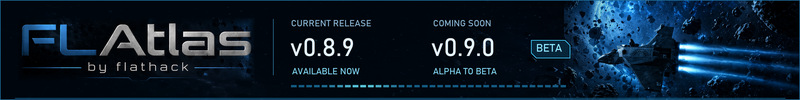
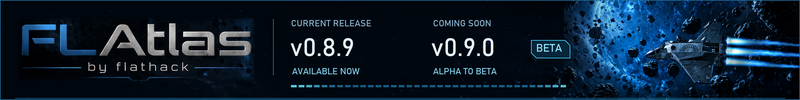
Animate FLAtlas signature spacecraft and engine exhaust

Changed region(s): [[0.6875, 0.18, 1.0, 0.93], [0.3438, 0.84, 0.5, 0.9], [0.6562, 0.84, 0.7188, 0.9]]

diff --git a/docs/forum-signature-progress.html b/docs/forum-signature-progress.html
@@ -344,9 +344,9 @@
   </div>
 
   <div class="gif-block">
-    <div class="gif-label"><span>FLAtlas</span> v0.8.9 · v0.9.0 BETA coming soon (GIF):</div>
+    <div class="gif-label"><span>FLAtlas</span> v0.8.9 · v0.9.0 BETA coming soon (GIF · animated ship &amp; thrusters):</div>
     <img class="gif-img" src="../assets/img/widgets/widget-animated-flatlas-v2-progress.gif"
-         alt="FLAtlas animated progress signature" width="800" height="100">
+         alt="FLAtlas v0.8.9 with flying spacecraft and animated thrusters — v0.9.0 BETA coming soon" width="800" height="100">
     <div class="bbcode-block gif-bbcode">
       <div class="bbcode-label">BBCode (animated GIF - FLAtlas):</div>
       <code class="bbcode-code">[url=https://www.moddb.com/games/freelancer/downloads][img]https://flathack.github.io/assets/img/widgets/widget-animated-flatlas-v2-progress.gif[/img][/url]</code>

diff --git a/assets/img/widgets/make_flatlas_v2_sig.py b/assets/img/widgets/make_flatlas_v2_sig.py
@@ -6,6 +6,7 @@ from __future__ import annotations
 import math
 from pathlib import Path
 
+import numpy as np
 from PIL import Image, ImageDraw, ImageFilter, ImageFont
 
 W, H = 800, 100
@@ -14,8 +15,8 @@ SW, SH = W * SCALE, H * SCALE
 BASE = Path(__file__).parent / "flatlas-signature-splash.png"
 OUT = Path(__file__).parent / "widget-flatlas-v2-progress.png"
 OUT_GIF = Path(__file__).parent / "widget-animated-flatlas-v2-progress.gif"
-FPS = 15
-DURATION_S = 4
+FPS = 20
+DURATION_S = 14
 TOTAL_FRAMES = FPS * DURATION_S
 TEXT = (230, 245, 255)
 MUTED = (140, 182, 211)
@@ -45,8 +46,9 @@ def text(draw: ImageDraw.ImageDraw, xy, value, font, fill) -> None:
     draw.text((sc(xy[0]), sc(xy[1])), value, font=font, fill=fill, anchor="lt")
 
 
-def make_background() -> Image.Image:
-    source = Image.open(BASE).convert("RGB")
+def make_background(source: Image.Image | None = None) -> Image.Image:
+    if source is None:
+        source = Image.open(BASE).convert("RGB")
     # Separate crops preserve the wordmark and ship in the narrow forum format.
     image = Image.new("RGBA", (SW, SH), (1, 8, 16, 255))
     stars = source.crop((0, 0, 1000, 250)).resize((SW, SH), Image.Resampling.LANCZOS)
@@ -72,8 +74,8 @@ def make_background() -> Image.Image:
 BACKGROUND = make_background()
 
 
-def render_frame(phase: float = 0.0) -> Image.Image:
-    image = BACKGROUND.copy()
+def render_frame(phase: float = 0.0, background: Image.Image | None = None) -> Image.Image:
+    image = (BACKGROUND if background is None else background).copy()
     draw = ImageDraw.Draw(image)
     draw.line((sc(273), sc(19), sc(273), sc(75)), fill=(44, 112, 150, 150), width=sc(0.6))
     text(draw, (291, 20), "CURRENT RELEASE", FONT_LABEL, MUTED)
@@ -105,16 +107,98 @@ def render_frame(phase: float = 0.0) -> Image.Image:
     return image.convert("RGB").resize((W, H), Image.Resampling.LANCZOS)
 
 
+def make_flight_frames() -> list[Image.Image]:
+    original = Image.open(BASE).convert("RGB")
+    background = make_background(Image.open(BASE.parent / "flatlas-signature-space.png").convert("RGB"))
+
+    # Reuse the exact existing wordmark rather than generated lettering.
+    logo = original.crop((135, 280, 910, 490)).resize((sc(238), sc(64.5)), Image.Resampling.LANCZOS)
+    logo_mask = Image.new("L", logo.size, 255)
+    md = ImageDraw.Draw(logo_mask)
+    for i in range(sc(8)):
+        md.rectangle((i, i, logo.width - i - 1, logo.height - i - 1), outline=round(i / sc(8) * 255))
+
+    ship = Image.open(BASE.parent / "flatlas-signature-ship.png").convert("RGBA")
+    ship = ship.crop(ship.getbbox())
+    ship = ship.resize((round(ship.width * sc(70) / ship.height), sc(70)), Image.Resampling.LANCZOS)
+
+    # The split sits just past the metal engine housings. Only the plasma changes.
+    nozzle_x = round(ship.width * 0.445)
+    body = ship.crop((0, 0, nozzle_x, ship.height))
+    plumes = []
+    for top, bottom in ((0, 94), (94, 126), (126, ship.height)):
+        plume = np.asarray(ship.crop((nozzle_x, top, ship.width, bottom))).astype(np.float32)
+        plumes.append((top, plume))
+
+
+    def animated_ship(seconds):
+        result = Image.new("RGBA", (ship.width + sc(25), ship.height))
+        result.alpha_composite(body)
+        glow = Image.new("RGBA", result.size)
+        gd = ImageDraw.Draw(glow)
+        for engine, (top, source) in enumerate(plumes):
+            offset = engine * 1.4
+            pulse = math.sin(math.tau * 2.5 * seconds + offset)
+            flicker = math.sin(math.tau * 3.5 * seconds + offset * 1.7)
+            length = 0.91 + 0.10 * pulse + 0.035 * flicker
+            u = np.linspace(0, 1, source.shape[1])[None, :]
+            # Brightness ripples move away from the nozzle, along the exhaust.
+            ripple = np.sin(math.tau * (3 * u - 2.5 * seconds) + offset)
+            brightness = 0.92 + 0.16 * pulse + 0.16 * ripple
+            pixels = source.copy()
+            pixels[:, :, :3] = np.clip(pixels[:, :, :3] * brightness[:, :, None], 0, 255)
+            pixels[:, :, 3] *= np.clip(0.87 + 0.10 * pulse + 0.10 * ripple, 0, 1)
+            plume = Image.fromarray(pixels.astype(np.uint8)).resize(
+                (round(source.shape[1] * length), source.shape[0]), Image.Resampling.BICUBIC)
+            # Slight waves at the far end keep the nozzle itself perfectly fixed.
+            for left in range(0, plume.width, 10):
+                right = min(left + 10, plume.width)
+                progress = left / plume.width
+                shift = round(sc(0.9) * progress ** 1.3 * math.sin(
+                    math.tau * (progress * 2 - 2.5 * seconds) + offset))
+                result.alpha_composite(plume.crop((left, 0, right, plume.height)),
+                                       (nozzle_x + left, top + shift))
+            center_y = (68, 99, 135)[engine]
+            radius = sc(1.6 + 0.5 * (pulse + 1))
+            gd.ellipse((nozzle_x - radius, center_y - radius,
+                        nozzle_x + radius, center_y + radius),
+                       fill=(130, 228, 255, round(90 + 50 * (pulse + 1))))
+        return Image.alpha_composite(result, glow.filter(ImageFilter.GaussianBlur(sc(1.2))))
+
+
+    # Soft shading behind the version labels preserves readability as it passes.
+    shade = Image.new("RGBA", background.size)
+    sd = ImageDraw.Draw(shade)
+    sd.rectangle((sc(282), sc(12), sc(575), sc(79)), fill=(0, 8, 18, 95))
+    shade = shade.filter(ImageFilter.GaussianBlur(sc(7)))
+
+    frames = []
+    for index in range(TOTAL_FRAMES):
+        phase = (index / TOTAL_FRAMES + 0.15) % 1.0
+        scene = background.copy()
+        scene.paste(logo, (sc(17), sc(17)), logo_mask)
+        if phase < 0.88:
+            x = 820 - (820 + ship.width / SCALE + 45) * phase / 0.88
+            y = 15 + 1.5 * math.sin(phase * math.tau)
+            scene.alpha_composite(animated_ship(index / FPS), (sc(x), sc(y)))
+        scene = Image.alpha_composite(scene, shade)
+        frames.append(render_frame((index / TOTAL_FRAMES * 3) % 1.0, scene))
+
+    return frames
+
+
 def main() -> None:
-    render_frame(0.25).save(OUT, optimize=True)
-    frames = [render_frame(index / TOTAL_FRAMES) for index in range(TOTAL_FRAMES)]
-    # A shared palette keeps the stationary artwork from flickering.
-    palette = frames[TOTAL_FRAMES // 4].quantize(colors=256)
-    frames = [frame.quantize(palette=palette, dither=Image.Dither.NONE) for frame in frames]
-    # GIF delays use 10 ms units: 60/70/70 ms gives exactly 15 fps.
-    delays = [60 if index % 3 == 0 else 70 for index in range(TOTAL_FRAMES)]
-    frames[0].save(OUT_GIF, save_all=True, append_images=frames[1:], duration=delays,
-                   loop=0, optimize=True, disposal=1)
+    # Requires Pillow and NumPy; all artwork is stored beside this generator.
+    frames = make_flight_frames()
+    frames[0].save(OUT, optimize=True)
+    # Sample the whole flight for one palette to keep the starfield stable.
+    samples = Image.new("RGB", (W, H * 6))
+    for row, index in enumerate(range(0, TOTAL_FRAMES, 50)):
+        samples.paste(frames[index], (0, row * H))
+    palette = samples.quantize(colors=256)
+    indexed = [frame.quantize(palette=palette, dither=Image.Dither.NONE) for frame in frames]
+    indexed[0].save(OUT_GIF, save_all=True, append_images=indexed[1:], duration=50,
+                    loop=0, optimize=True, disposal=1)
     for output in (OUT, OUT_GIF):
         print(f"Saved {output.name} ({W}x{H}, {output.stat().st_size // 1024} KB)")
 
